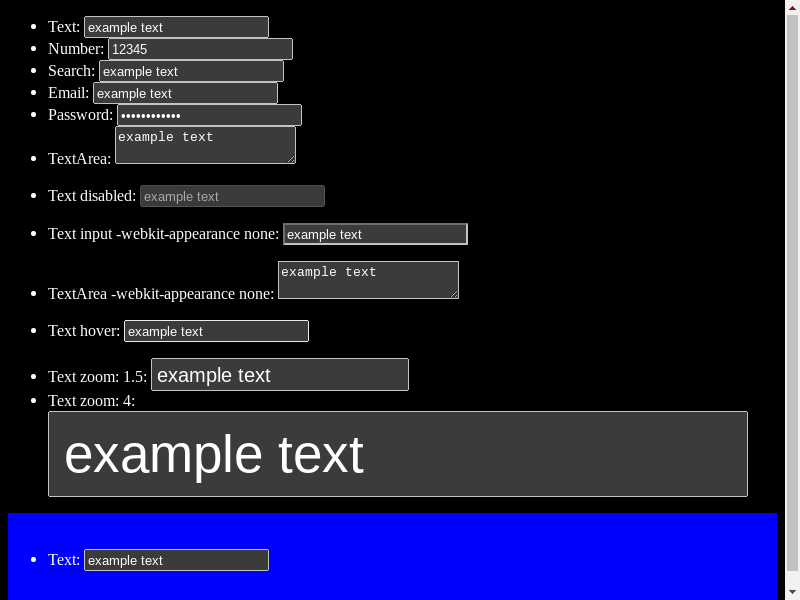
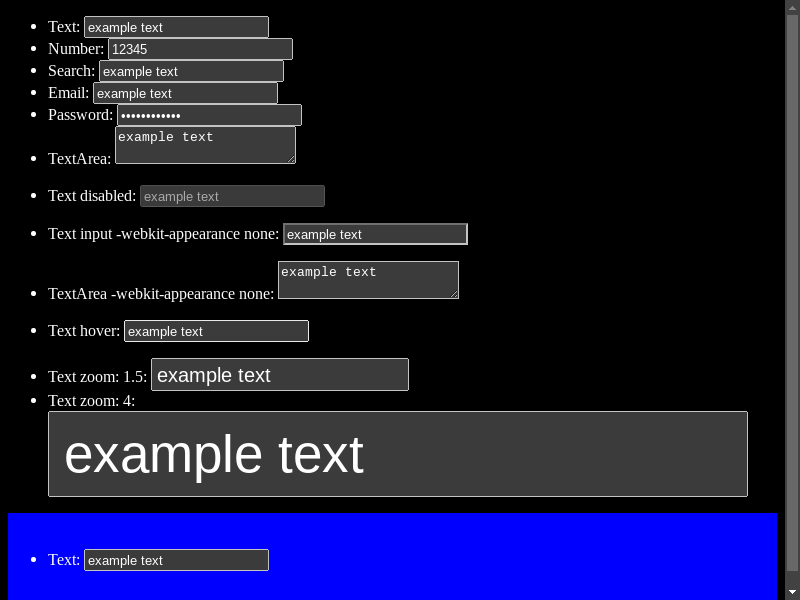
[Controls Refresh] Adds dark mode styling for scrollbars
This change uses the native_theme and scrollbar_theme properties to set
correct dark mode styling for scrollbars.

Bug: 929098
Commit-Queue: Sam Sebree <sasebree@microsoft.com>
Cr-Commit-Position: refs/heads/master@{#760579}

Changed region(s): [[0.9688, 0.0, 1.0, 1.0]]

diff --git a/web_tests/virtual/dark-color-scheme/scrollbar/scrollbar-middle.html b/web_tests/virtual/dark-color-scheme/scrollbar/scrollbar-middle.html
@@ -1,0 +1,23 @@
+<!DOCTYPE html>
+<meta name="color-scheme" content="dark">
+<body>
+  <br><br><br><br><br>
+  <br><br><br><br><br>
+  <br><br><br><br><br>
+  <br><br><br><br><br>
+  <br><br><br><br><br>
+  <br><br><br><br><br>
+  <br><br><br><br><br>
+  <br><br><br><br><br>
+  <br><br><br><br><br>
+  <br><br><br><br><br>
+  <br><br><br><br><br>
+  <br><br><br><br><br>
+  <br><br><br><br><br>
+  <br><br><br><br><br>
+  <br><br><br><br><br>
+  <br><br><br><br><br>
+  <script>
+    window.scrollBy(0, 100);
+  </script>
+</body>

diff --git a/web_tests/virtual/dark-color-scheme/scrollbar/scrollbar-top.html b/web_tests/virtual/dark-color-scheme/scrollbar/scrollbar-top.html
@@ -1,0 +1,20 @@
+<!DOCTYPE html>
+<meta name="color-scheme" content="dark">
+<body>
+  <br><br><br><br><br>
+  <br><br><br><br><br>
+  <br><br><br><br><br>
+  <br><br><br><br><br>
+  <br><br><br><br><br>
+  <br><br><br><br><br>
+  <br><br><br><br><br>
+  <br><br><br><br><br>
+  <br><br><br><br><br>
+  <br><br><br><br><br>
+  <br><br><br><br><br>
+  <br><br><br><br><br>
+  <br><br><br><br><br>
+  <br><br><br><br><br>
+  <br><br><br><br><br>
+  <br><br><br><br><br>
+</body>

diff --git a/renderer/core/scroll/scrollbar_theme_mac.mm b/renderer/core/scroll/scrollbar_theme_mac.mm
@@ -236,8 +236,8 @@ CocoaScrollbarPainter::Params GetPaintParams(const Scrollbar& scrollbar,
   if (scrollbar.IsLeftSideVerticalScrollbar())
     params.orientation = CocoaScrollbarPainter::Orientation::kVerticalOnLeft;
 
+  params.dark_mode = scrollbar.UsedColorScheme() == WebColorScheme::kDark;
   params.overlay = overlay;
-  // Only enable dark mode for overlay scrollbars (for now).
   if (overlay)
     params.dark_mode = scrollbar.GetScrollbarOverlayColorTheme() ==
                        kScrollbarOverlayColorThemeLight;
